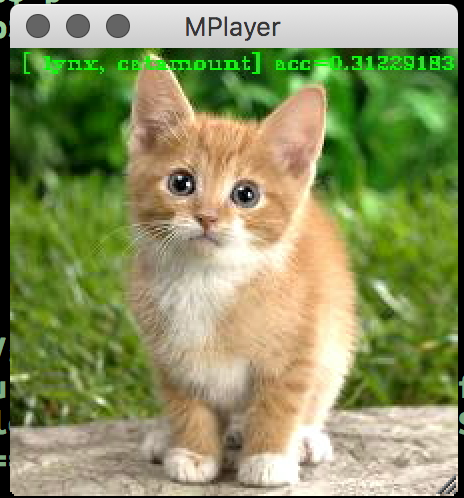
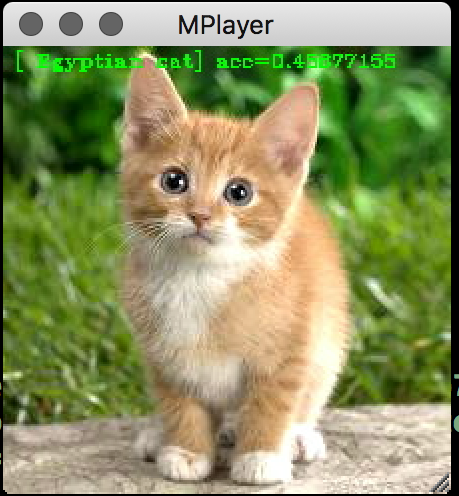
MxNet expects BGR, not RGB

diff --git a/gst_cpp_mxnet_recognize/gst_mxnet_cpp/src/gstmxnet.c b/gst_cpp_mxnet_recognize/gst_mxnet_cpp/src/gstmxnet.c
@@ -86,13 +86,13 @@ static GstStaticPadTemplate sink_factory =
 GST_STATIC_PAD_TEMPLATE("sink",
 		GST_PAD_SINK,
 		GST_PAD_ALWAYS,
-		GST_STATIC_CAPS(GST_VIDEO_CAPS_MAKE("RGB"))
+		GST_STATIC_CAPS(GST_VIDEO_CAPS_MAKE("BGR"))
 		);
 
 static GstStaticPadTemplate src_factory = GST_STATIC_PAD_TEMPLATE("src",
 		GST_PAD_SRC,
 		GST_PAD_ALWAYS,
-		GST_STATIC_CAPS(GST_VIDEO_CAPS_MAKE("RGB"))
+		GST_STATIC_CAPS(GST_VIDEO_CAPS_MAKE("BGR"))
 		);
 
 #define gst_mxnet_parent_class parent_class

diff --git a/gst_cpp_mxnet_recognize/README.md b/gst_cpp_mxnet_recognize/README.md
@@ -42,25 +42,26 @@ To stop and remove modified containers it shall be possible to do:
 
 Recognize one input JPEG image
 ```	
-	gst-launch-1.0 multifilesrc location=/tmp/img2.jpg loop=true  ! jpegparse  !  avdec_mjpeg ! videoconvert ! video/x-raw,format=RGB ! mxnet ! fakesink
+	gst-launch-1.0 multifilesrc location=/tmp/img2.jpg loop=true  ! jpegparse  !  avdec_mjpeg ! videoconvert ! video/x-raw,format=BGR ! mxnet ! fakesink
 ```
 
 Combine input images into a sequence and recognize each of them
 ```
-	gst-launch-1.0  multifilesrc  location=/tmp/img%d.jpg index=0 caps="image/jpeg,framerate=\(fraction\)1/1" loop=true  ! jpegparse  !  avdec_mjpeg ! videoconvert ! video/x-raw,format=RGB !  mxnet  ! fakesink  sync=true
+	gst-launch-1.0  multifilesrc  location=/tmp/img%d.jpg index=0 caps="image/jpeg,framerate=\(fraction\)1/1" loop=true  ! jpegparse  !  avdec_mjpeg ! videoconvert ! video/x-raw,format=BGR !  mxnet  ! fakesink  sync=true
 ```
 
 Use the following command to capture the recording to a file to verify that recognition result message is written over the video stream:
 ```
-	gst-launch-1.0  multifilesrc  location=/tmp/img%d.jpg index=0 caps="image/jpeg,framerate=\(fraction\)1/1" loop=true  ! jpegparse  !  avdec_mjpeg ! videoconvert ! video/x-raw,format=RGB !  mxnet  ! videoconvert ! theoraenc ! oggmux ! filesink location=/tmp/foo.ogg
+	gst-launch-1.0  multifilesrc  location=/tmp/img%d.jpg index=0 caps="image/jpeg,framerate=\(fraction\)1/1" loop=true  ! jpegparse  !  avdec_mjpeg ! videoconvert ! video/x-raw,format=BGR !  mxnet  ! videoconvert ! theoraenc ! oggmux ! filesink location=/tmp/foo.ogg
 ```
 
 # Expected Result
 Observe a sequence of messages in GStreamer output
 ```
-	Best Result: [ lynx, catamount] id = 287, accuracy = 0.31229183
-	Best Result: [ boathouse] id = 449, accuracy = 0.86502564
-	Best Result: [ beagle] id = 162, accuracy = 0.30743387
+	Best Result: [ Egyptian cat] id = 285, accuracy = 0.45677155
+	Best Result: [ boathouse] id = 449, accuracy = 0.86752290
+	Best Result: [ beagle] id = 162, accuracy = 0.33147627
+
 ```
 
 If you captured the output to a file, inspect it with a video player and ensure that each frame has the text in GREEN showing the recognized category and accuracy. See the screenshots below for an example.
